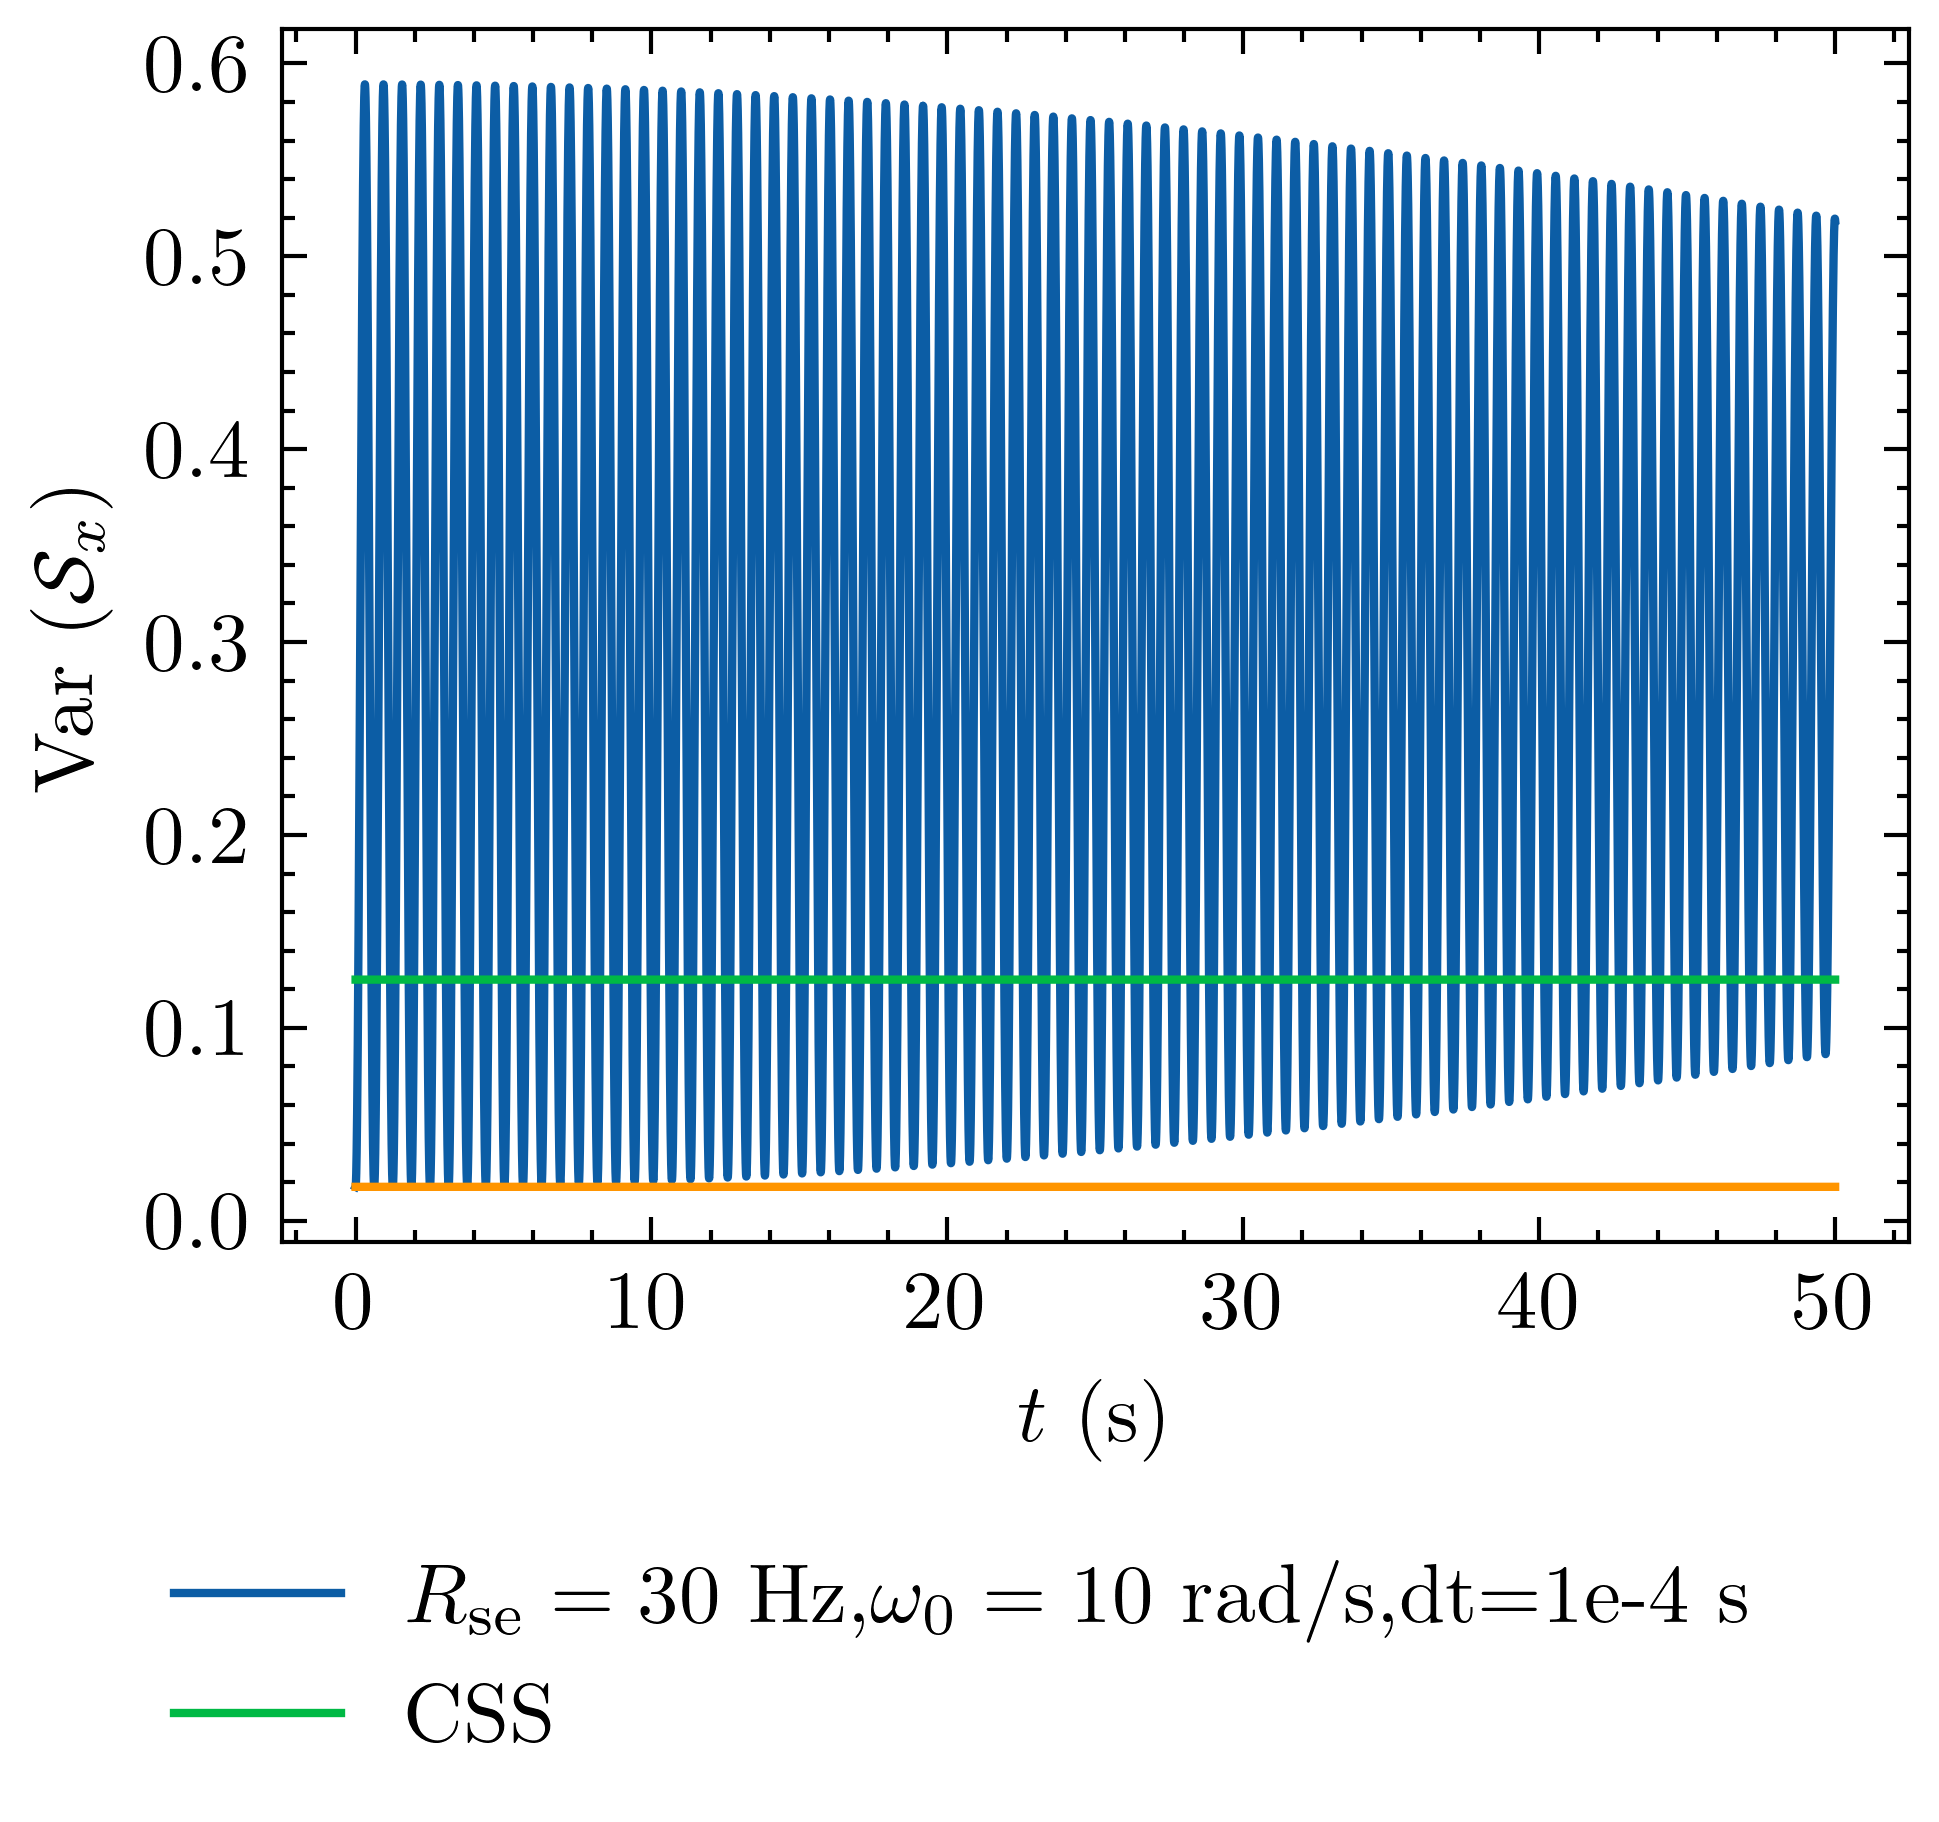
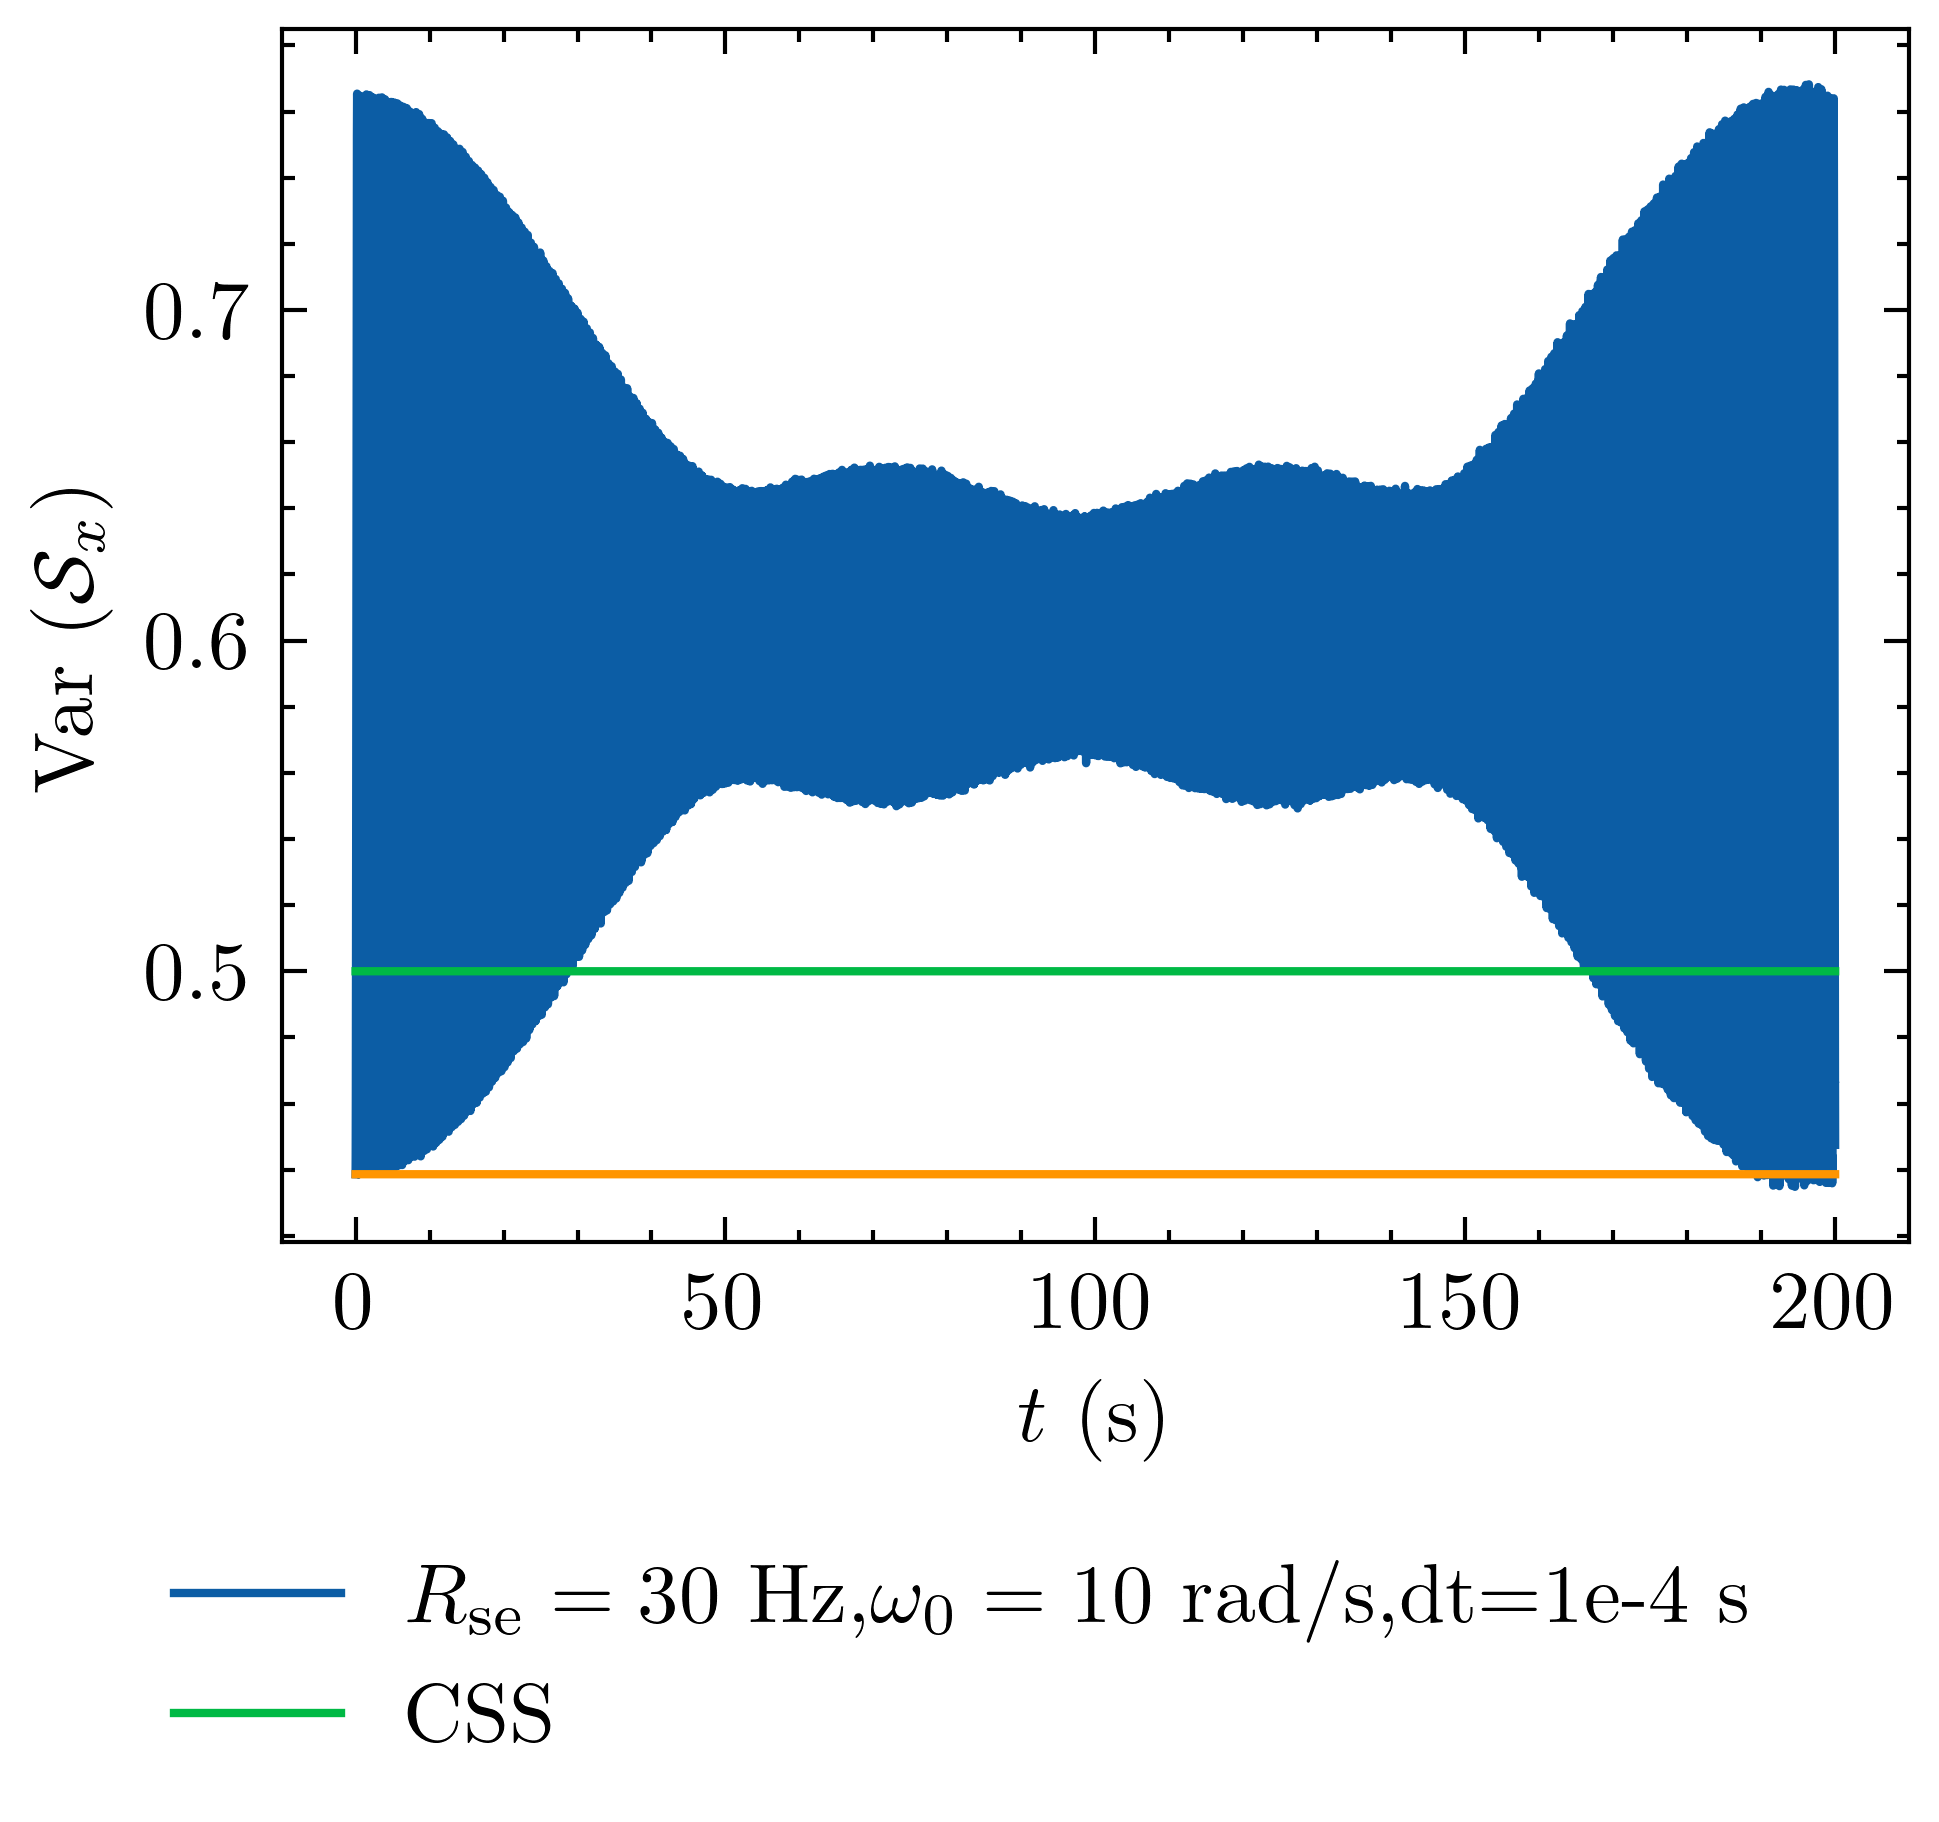
1

diff --git a/test.py b/test.py
@@ -4,8 +4,8 @@
 日期：2023年12月17日
 """
 import sys
-sys.path.append(r"/Users/liyang/Documents/GitHub/Optically_polarized_atoms/my_functions")
-# sys.path.append(r"D:\Optically-pumped-atoms\my_functions")
+# sys.path.append(r"/Users/liyang/Documents/GitHub/Optically_polarized_atoms/my_functions")
+sys.path.append(r"D:\Optically-pumped-atoms\my_functions")
 from scipy import signal
 import numpy as np
 import matplotlib.pyplot as plt
@@ -34,9 +34,9 @@ dt = 0.02
 S = 1 / 2
 U = alkali_atom_uncoupled_to_coupled(round(2 * I))
 # ----------------------spin operators----------------------#
-omega_e=20
+omega_e= 30
 Ahf=3000
-SE=0.0002
+SE= 0.004
 if N == 2:
     """
       角动量算符
@@ -44,8 +44,6 @@ if N == 2:
     a1x, a2x, a1y, a2y, a1z, a2z, b1x, b2x, b1y, b2y, b1z, b2z, Fx, Fy, Fz = spin_operators_of_2or1_alkali_metal_atoms(
         2, I)
     mathcal_F=a1z+a2z+b1z+b2z
-    mathcal_S=(a1z+a2z-b1z-b2z)/4
-    mathcal_F=mathcal_S
     Sx = np.kron(np.eye(round(2 * I + 1)), np.array(1 / 2 * sigmax().full()))
     Sx = U.T.conjugate() @ Sx @ U
     Sy = np.kron(np.eye(round(2 * I + 1)), np.array(1 / 2 * sigmay().full()))
@@ -63,6 +61,8 @@ if N == 2:
     Ps12 = 1 / 4 * np.eye(round((2 * (2 * I + 1)) ** N)) - (S1x @ S2x + S1y @ S2y + S1z @ S2z)
     Pt12 = 3 / 4 * np.eye(round((2 * (2 * I + 1)) ** N)) + (S1x @ S2x + S1y @ S2y + S1z @ S2z)
     Pe12 = Pt12 - Ps12
+    mathcal_S=(S1z+S2z)
+    mathcal_F=mathcal_S
 
     Ix = np.kron(spin_Jx(I).full(), np.eye(round(2 * S+ 1)))
     Ix = U.T.conjugate() @ Ix @ U
@@ -93,7 +93,7 @@ if N == 2:
     H_h = Ahf *( I1x@S1x+I1y@S1y+I1z@S1z+I2x@S2x+I2y@S2y+I2z@S2z) # 两个原子
 # ----------------------squeezing----------------------#
 ini_Rho_atom, Rho_atomi = Generate_a_squeezed_state_by_QND(2, I, T_sq, s, alpha, dt)
-T = 2000
+T = 200
 dt1 = 1e-5
 n1 = round(T / dt1)
 C_1 = [None] * n1
@@ -134,54 +134,31 @@ for t in trange(0, n1, 1):
 
 
 C_1=np.array(C_1)
-# def lowpass_filter(data, cutoff_freq, sample_rate, order=5):
-#     """
-#     应用Butterworth低通滤波器
-#     参数：
-#         data: 输入信号数据
-#         cutoff_freq: 截止频率（Hz）
-#         sample_rate: 采样率（Hz）
-#         order: 滤波器阶数（默认5阶）
-#     返回：
-#         滤波后的信号
-#     """
-#     # 计算归一化截止频率（Nyquist频率的倍数）
-#     nyquist = 0.5 * sample_rate
-#     normal_cutoff = cutoff_freq / nyquist
-    
-#     # 设计Butterworth滤波器
-#     b, a = signal.butter(order, normal_cutoff, btype='low', analog=False)
-    
-#     # 应用前向后向滤波（消除相位延迟）
-#     filtered_data = signal.filtfilt(b, a, data)
-#     return filtered_data
-# filtedData  =   lowpass_filter( C_1,100,round(1/dt1))   #data为要过滤的信号
-
-# C_2=np.array(C_2)
 
 
 CSS=np.array([1,0,0,0,0,0,0,0])
 CSS3=np.kron(CSS,CSS)
 Rho_CSS=np.outer(CSS3,CSS3)
-mathcal_Fx=(a1x+a2x-b1x-b2x)/4
-mathcal_Fz=(a1z+a2z-b1z-b2z)/4
+mathcal_Fx=S1x+S2x
+mathcal_Fz=S1z+S2z
 Varcss=np.trace(Rho_CSS@mathcal_Fx@mathcal_Fx)-np.trace(Rho_CSS@mathcal_Fx)**2
 Varsss=np.trace(Rho_atomi@mathcal_Fz@mathcal_Fz)-np.trace(Rho_atomi@mathcal_Fz)**2
 
 tt1 = np.arange(0, n1, 1)*dt1
 # tt2 = np.arange(0, n2, 1)*dt2
-
+C1=C_1[::100]
+tt=tt1[::100]
 with plt.style.context(['science']):
     fig = plt.figure()
     ax1 = fig.add_subplot(1, 1, 1)
-    p1, = ax1.plot(tt1, C_1 )
+    p1, = ax1.plot(tt, C1 )
     # p2, = ax1.plot(tt2, np.mean(C_2)*np.ones(len(tt2)) ) 
-    p6, = ax1.plot(tt1, np.ones(len(tt1))*Varcss)
-    p7, = ax1.plot(tt1, np.ones(len(tt1))*Varsss)
+    p6, = ax1.plot(tt, np.ones(len(tt))*Varcss)
+    p7, = ax1.plot(tt, np.ones(len(tt))*Varsss)
     ax1.legend([p1,p6,p7],
                ["$R_{\\text{se}}=30$ Hz,$\omega_0=10$ rad/s,dt=1e-4 s","CSS"],bbox_to_anchor=(0.95, -0.2),ncol=1)
     ax1.set_xlabel('$t$ (s)')
     ax1.set_ylabel('Var $( \mathcal S_{x})$')
-    # plt.xlim(280, 300)
+    # plt.xlim(0, 100)
     # plt.ylim(0.1,0.55)
     plt.savefig('desqueezing.png', dpi=600)
